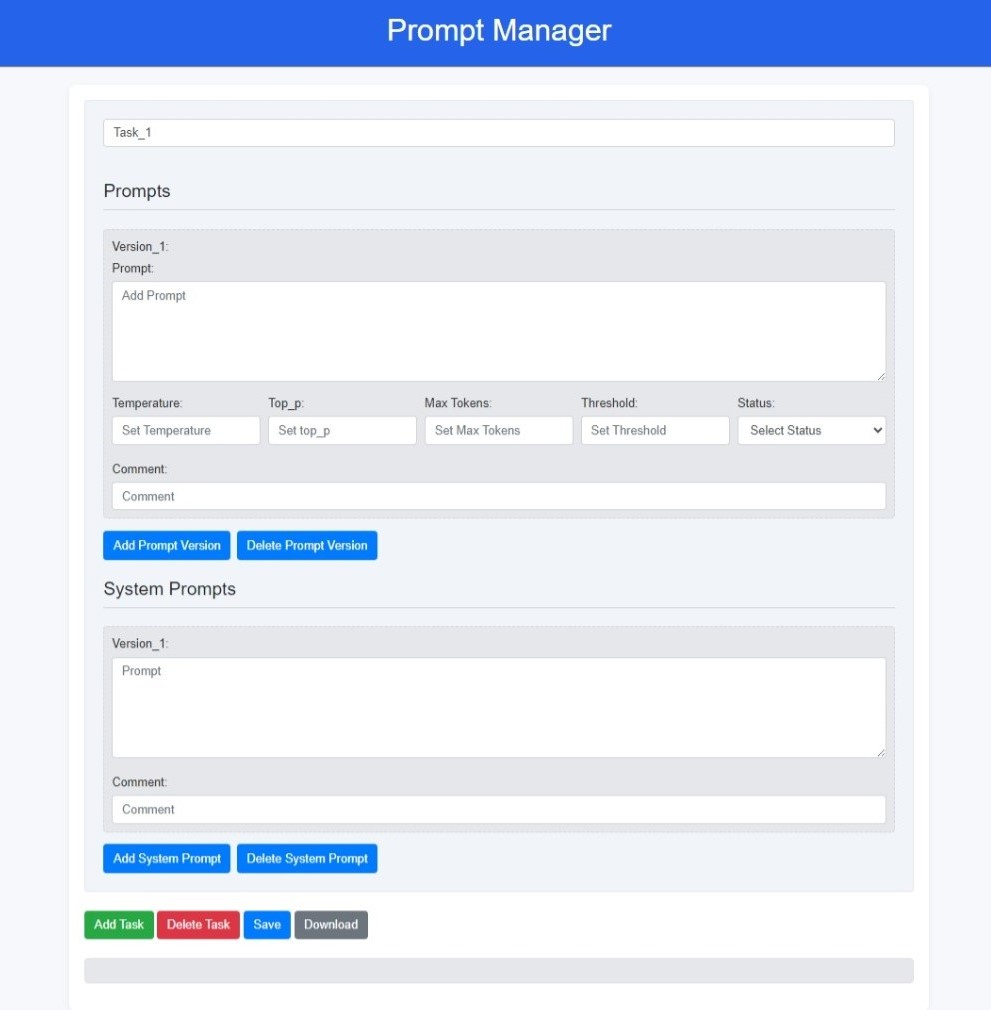
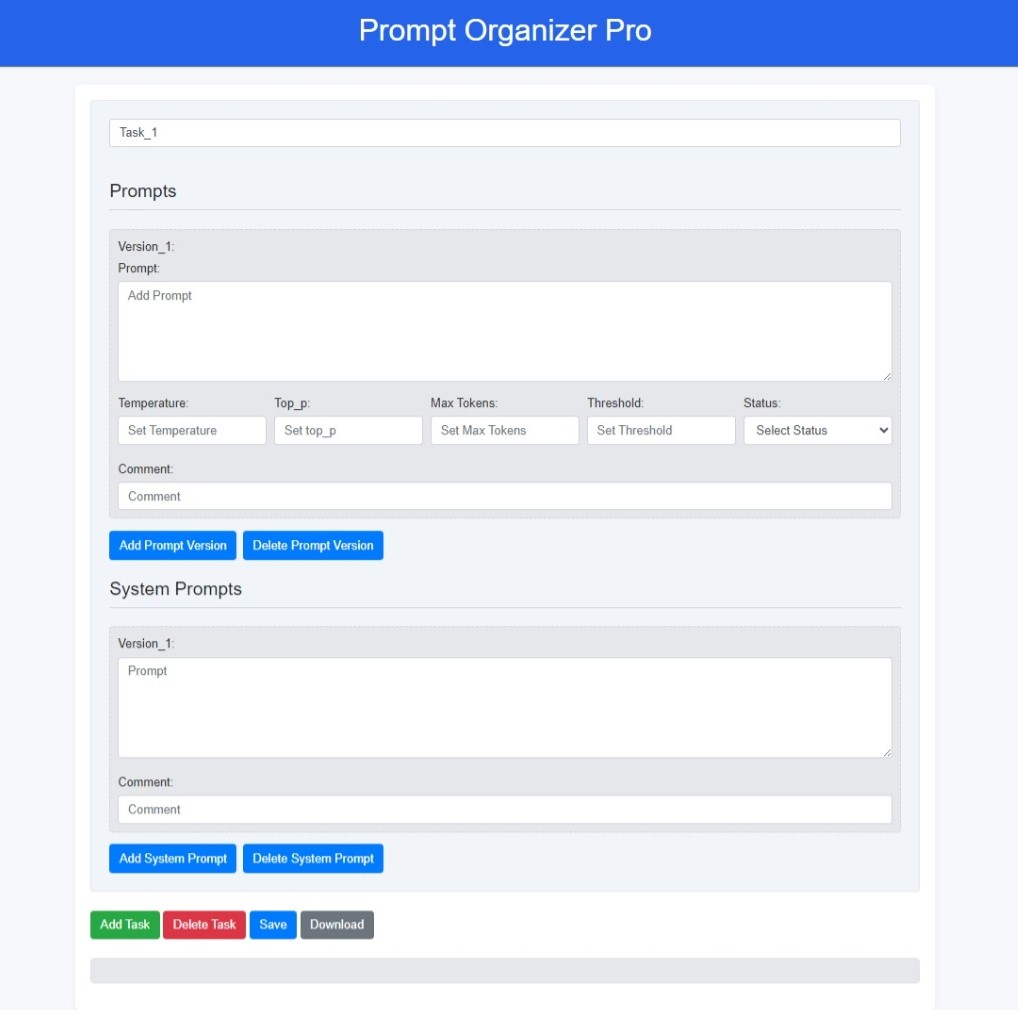
adding help content

diff --git a/README.md b/README.md
@@ -1,11 +1,11 @@
-# Managing Prompts with Ease: Prompt Manager
+# Managing Prompts with Ease: Prompt Organizer Pro
 
 ## Introduction
 In the realm of *Prompt Engineering*, managing multiple versions of prompts can become overwhelming. Individuals and teams often face challenges in tracking and organizing different types of prompts, leading to the possibility of missing out on some of the best ones.
 
 The lack of a structured approach to manage prompts efficiently often makes it difficult to navigate through them, causing a significant impediment in the workflow. Understanding this persistent issue, we introduce an application that serves as a beacon of relief: The Prompt Manager.
 
-## Features of the Prompt Manager App:
+## Features of the Prompt Organizer Pro:
 1. Task-Based Organization:
 Users can organize prompts under different tasks (Summarization, Topic Discovery, etc), allowing for a clear and categorized view of each prompt.
 
